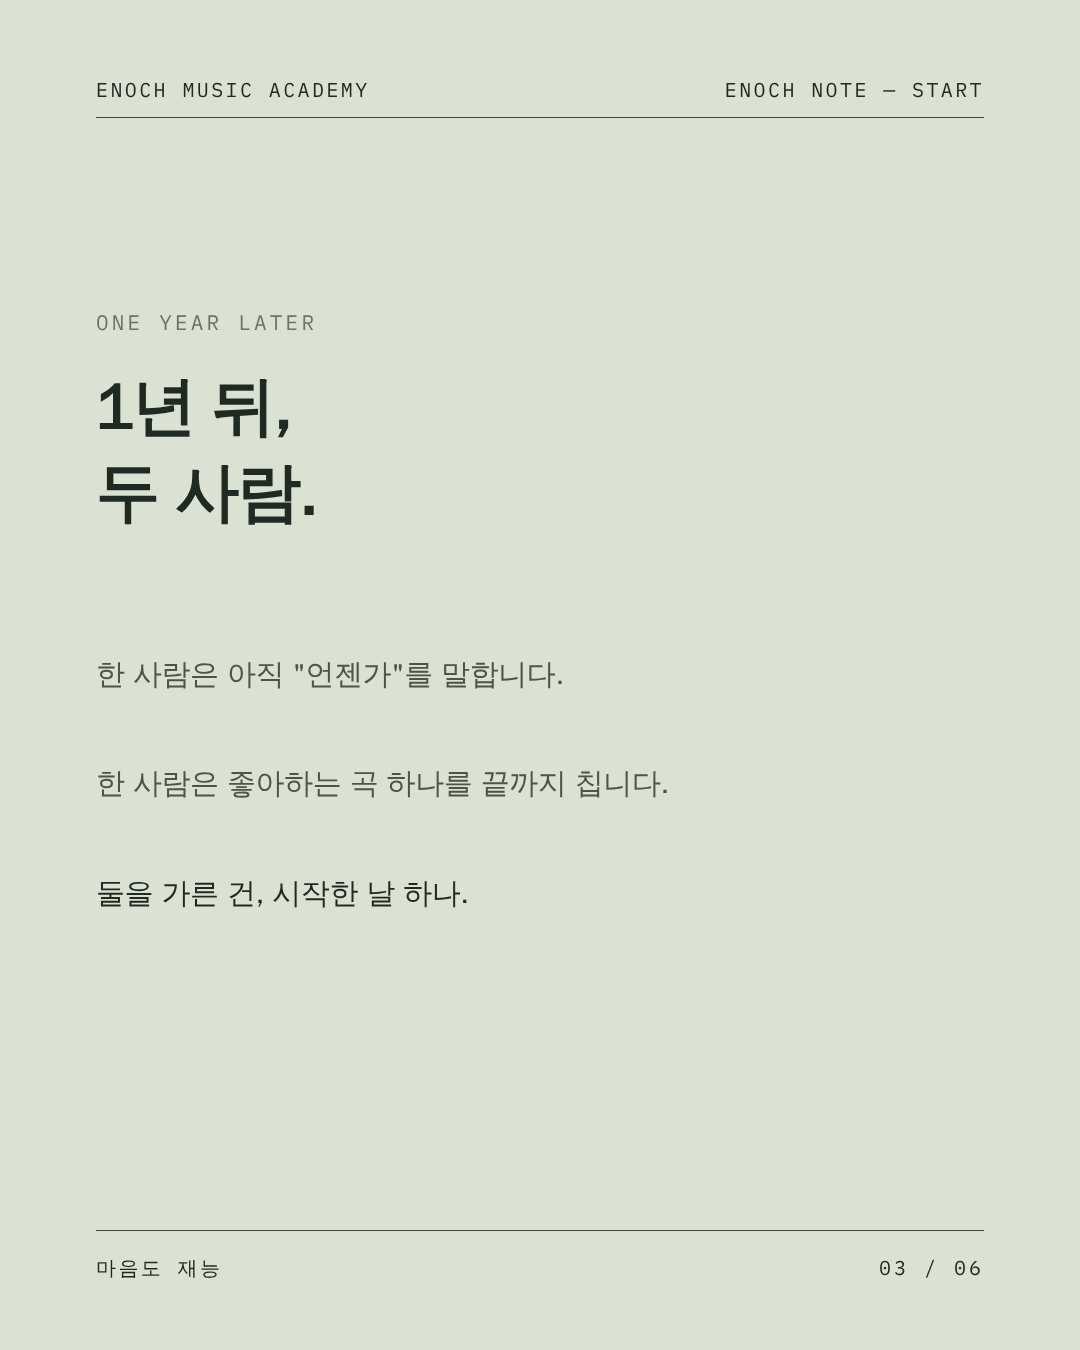
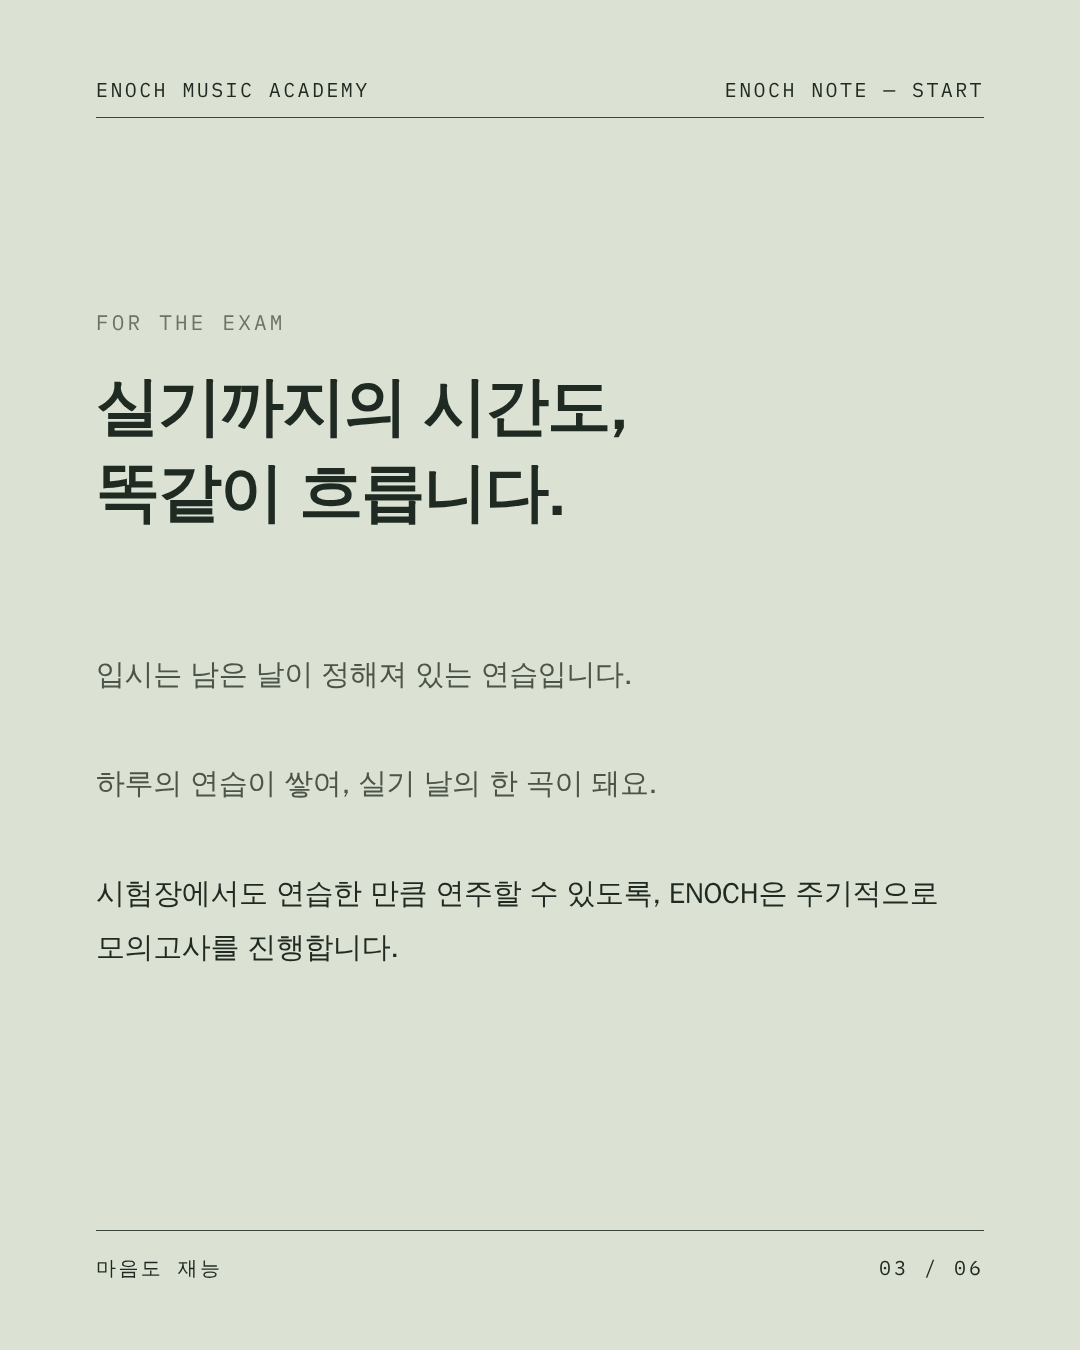
마음도 재능 3장: 입시 연습 이야기로 (실기까지의 시간 + 모의고사)
Claude-Session: https://claude.ai/code/session_01HGbZvgMeYrbU7mY8bwfjyb

diff --git a/output/노트_마음도재능/preview.html b/output/노트_마음도재능/preview.html
@@ -269,8 +269,8 @@ body { font-family: var(--ko); word-break: keep-all; -webkit-font-smoothing: ant
   </section>
 <section class="card layout-point theme-sage" id="card-3">
     <div class="masthead"><span>ENOCH MUSIC ACADEMY</span><span>ENOCH NOTE — START</span></div>
-    <div class="kicker">One Year Later</div><h2 class="title">1년 뒤,
-두 사람.</h2><div style="margin-top:56px"><p class="body">한 사람은 아직 &quot;언젠가&quot;를 말합니다.</p><p class="body">한 사람은 좋아하는 곡 하나를 끝까지 칩니다.</p><p class="body"><span class="em">둘을 가른 건, 시작한 날 하나.</span></p></div>
+    <div class="kicker">For the Exam</div><h2 class="title">실기까지의 시간도,
+똑같이 흐릅니다.</h2><div style="margin-top:56px"><p class="body">입시는 남은 날이 정해져 있는 연습입니다.</p><p class="body">하루의 연습이 쌓여, 실기 날의 한 곡이 돼요.</p><p class="body"><span class="em">시험장에서도 연습한 만큼 연주할 수 있도록, ENOCH은 주기적으로 모의고사를 진행합니다.</span></p></div>
     
     
     <div class="colophon"><span>마음도 재능</span><span class="page">03 / 06</span></div>
